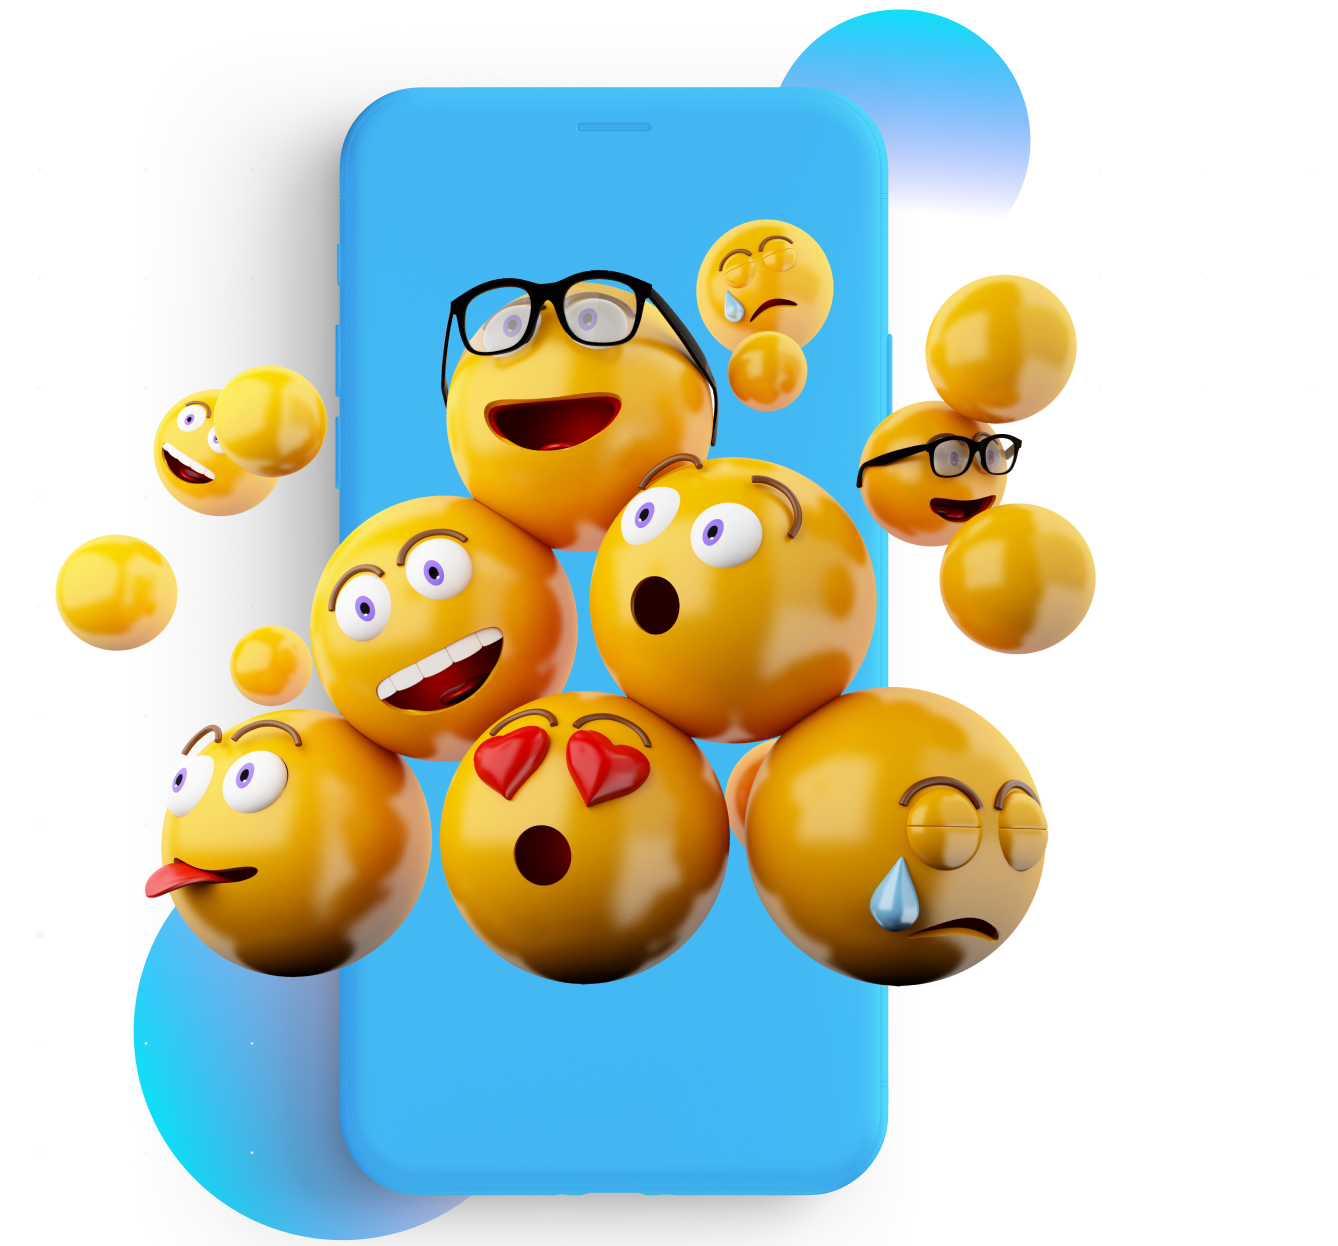
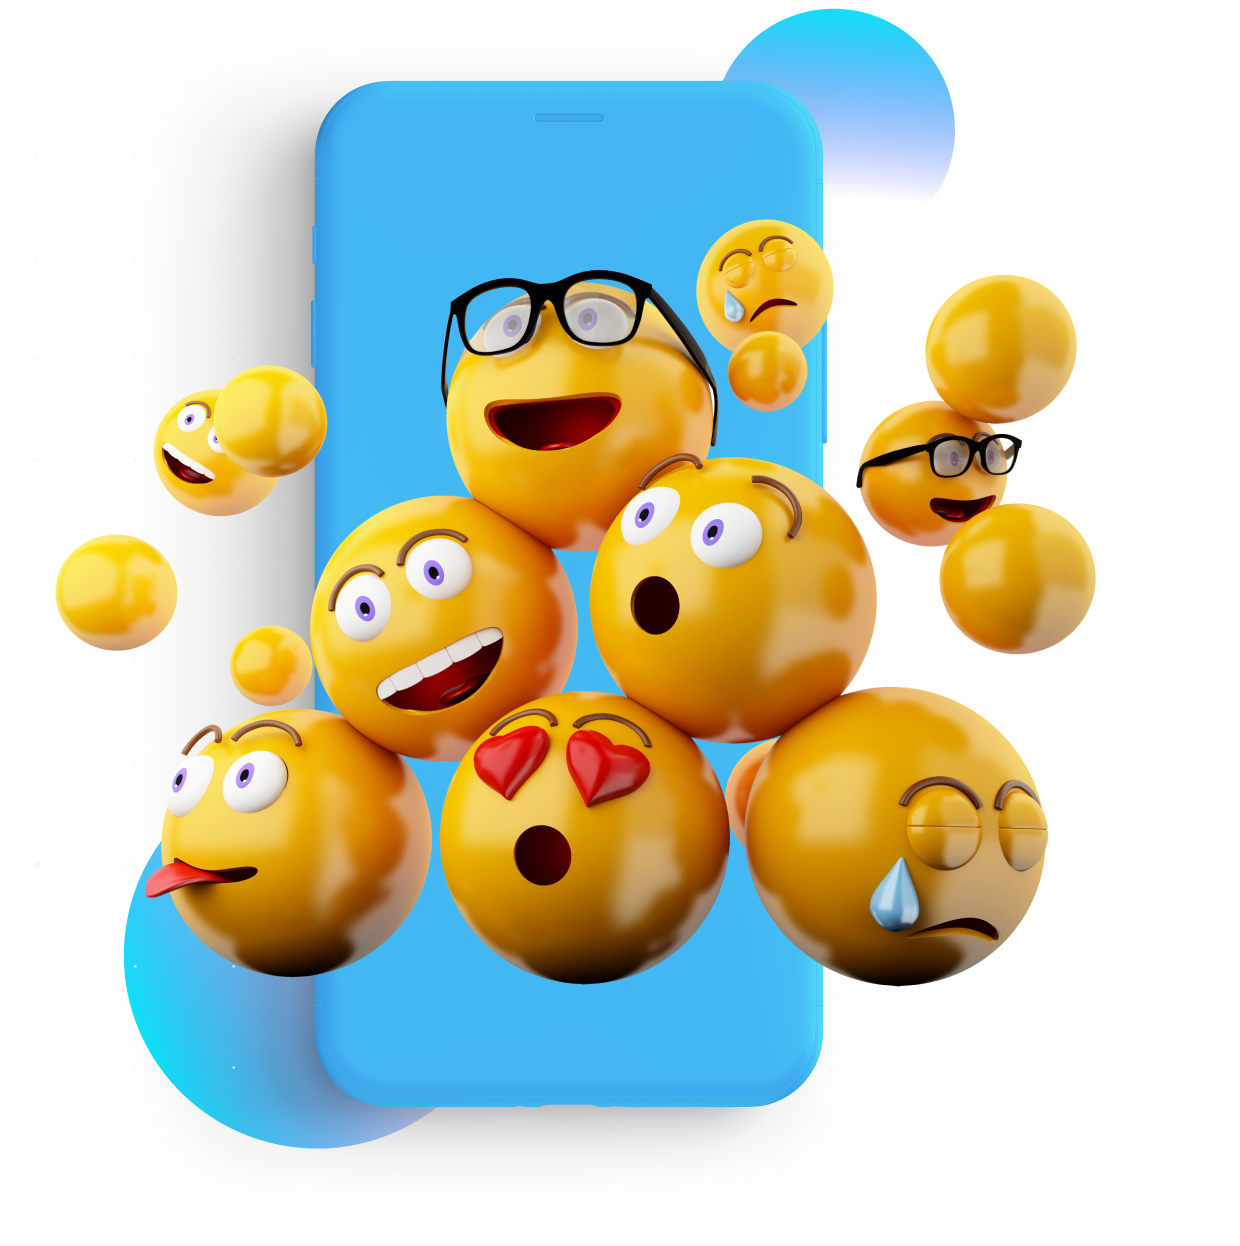
cambios

diff --git a/styles.css b/styles.css
@@ -186,8 +186,8 @@ p{
 }
 
 .emojis{
-    width: 374px;
-    height: 348px;
+    width: 379px;
+    height: 385px;
     position: relative;
     top: 80px;
     left: 7%;
@@ -451,8 +451,8 @@ p{
     }
 
     .emojis{
-        width: 500px;
-        height: 466px;
+        width: 501px;
+        height: 504px;
         position: relative;
         top: 50px;
         left: 20%;
@@ -674,6 +674,30 @@ p{
         line-height: 28px;
     }
 
+    .logo{
+        cursor: pointer;
+        position: relative;
+        left: 9%;
+        top: 60px;
+        z-index: 1;
+    }
+    
+    .menu{
+        height: 35px;
+        width: 47px;
+        position: absolute;
+        top: 68px;
+        right: 8%;
+        z-index: 3;
+        cursor: pointer;
+        fill: #ffffff;
+    }    
+
+    .bienvenida{
+        height: 680px;
+        width: 100%;
+    }
+
     .wrapper-bienvenida{
         max-width: 38%;
         position: relative;
@@ -682,12 +706,68 @@ p{
         margin: 0 0px 80px 125px;
     }
 
+    .middle{
+        position: absolute;
+        bottom: 5%;
+        left: 50%;
+        transform: translate(-50%);
+        z-index: 1;
+    }
+
+    .mouse{
+        width: 20px;
+        height: 33px;
+        border: 2px solid #01D6E4;
+        border-radius: 80px;
+    }
+
+    .mouse::before{
+        content: "";
+        width: 6px;
+        height: 6px;
+        position: absolute;
+        top: 10px;
+        background: #01D6E4;
+        left: 50%;
+        transform: translateX(-50%);
+        border-radius: 50%;
+        opacity: 1;
+        animation: mouse 1.2s infinite;
+    }
+
+    @keyframes mouse {
+        from{
+        opacity: 1;
+        top: 9px;
+        }
+        to{
+        opacity: 0;
+        top: 30px;
+        }
+    }
+
     .emojis{
-        width: 669px;
+        width: 620px;
         height: 623px;
         position: relative;
         top: -500px;
         left: 50%;
     }
+
+    .equipomobile{
+        width: 815px;
+        height: 787px;
+        background: url(img/team_tablet.png);
+        background-size: cover;
+        background-position: center;
+        text-align: center;
+        margin: 0 0 0 0;
+        margin-bottom: 15px;
+        position: relative;
+        top: -450px;
+        left: -7%;
+    }
+
+    
 
 }

diff --git a/index.html b/index.html
@@ -64,8 +64,8 @@
                 
                 <img class="emojis" src="img/emojis_mobile.png" alt="Logo de Estudio 92">
 
-                <div class="middle"></div>
-                <div class="mouse"></div>
+                <div class="middle">
+                <div class="mouse">
 
         </section>
 
